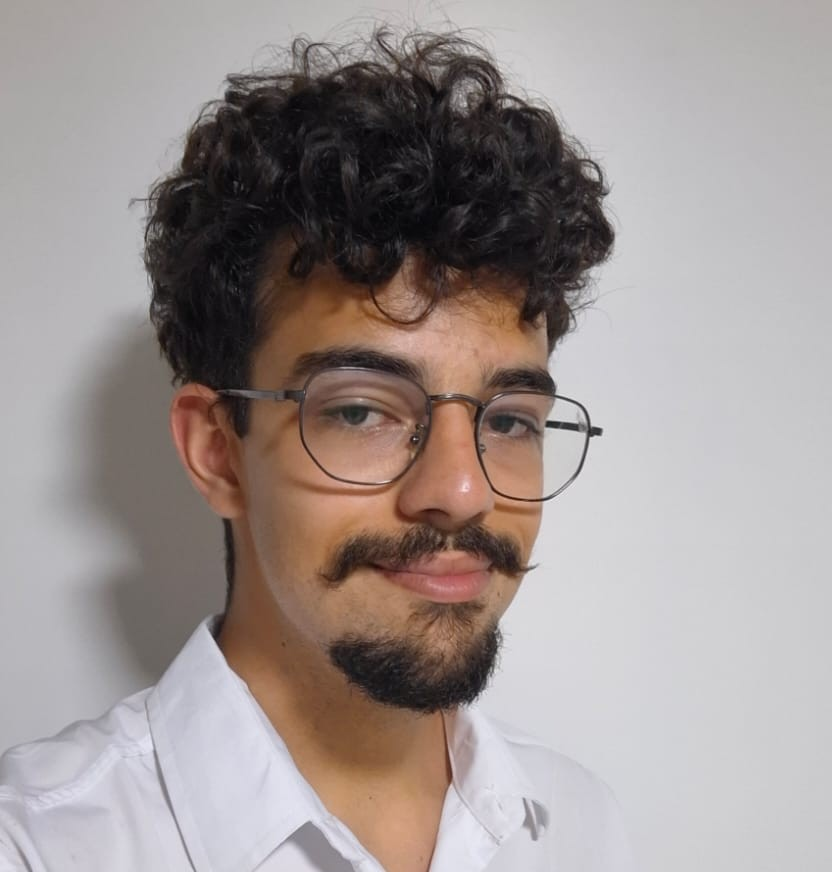
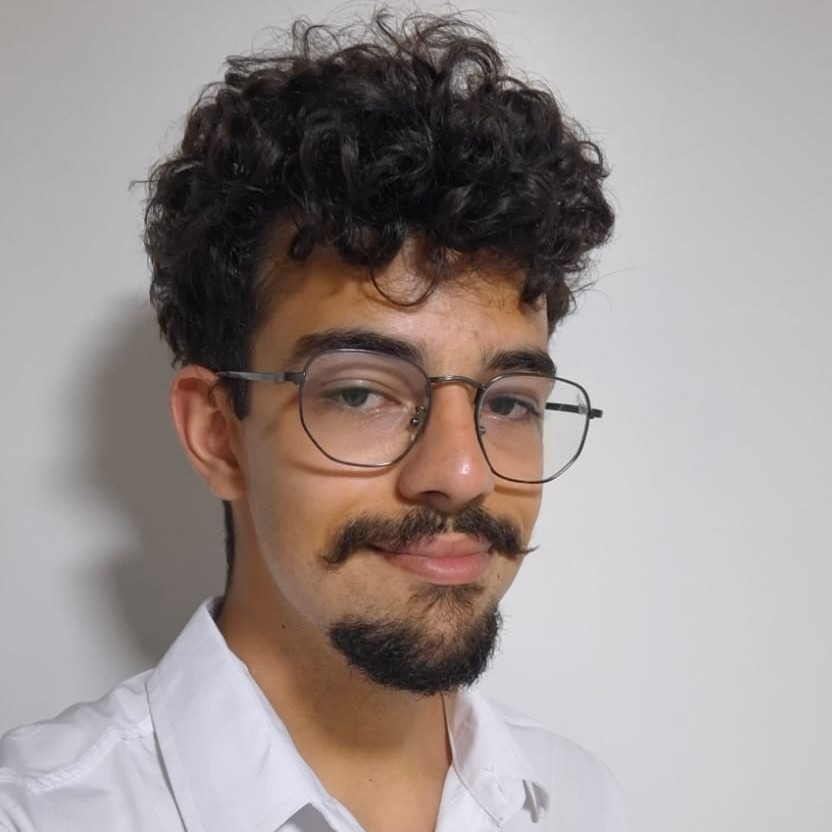
style: fixes profile picture proportions

diff --git a/src/components/Hero.tsx b/src/components/Hero.tsx
@@ -25,7 +25,7 @@ export default function Hero() {
         </div>
         <div className="profileImageDiv flex justify-center md:justify-end items-center">
           <div className="profileImage rounded-full overflow-hidden lg:me-16">
-            <img src={pfp} alt="Profile picture" className="w-64" />
+            <img src={pfp} alt="Profile picture" className="aspect-square w-64" />
           </div>
         </div>
         <ContactLinks className="gap-3 sm:gap-4 text-lg md:text-xl md:col-span-2  mb-20 md:mt-20" />
